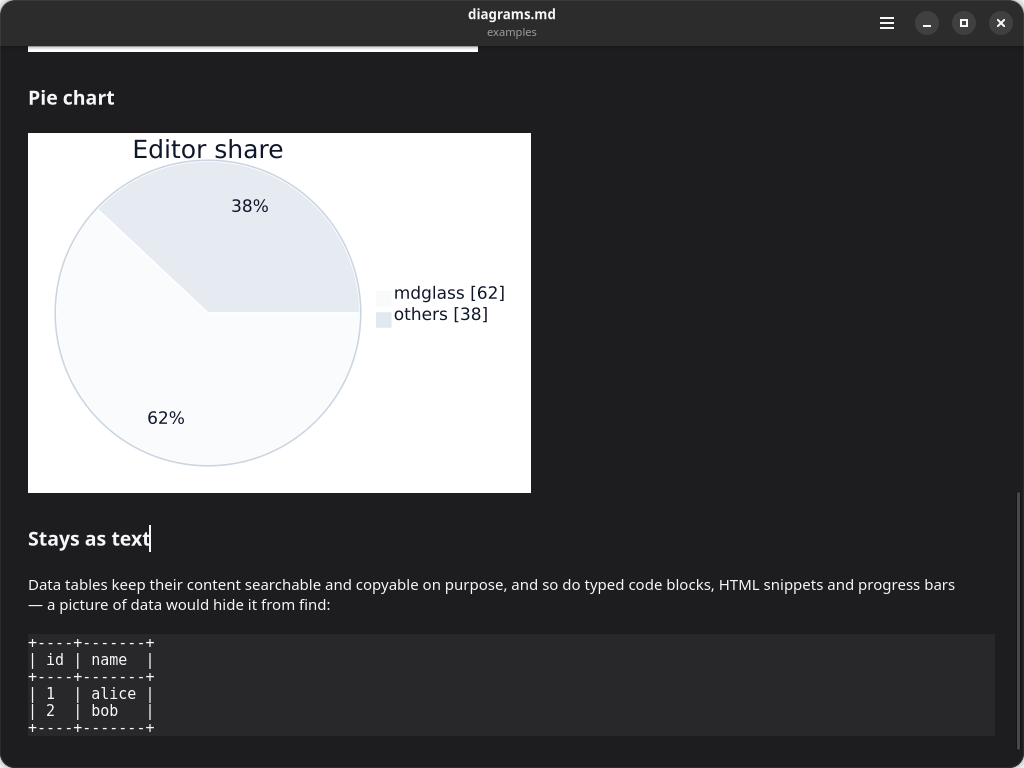
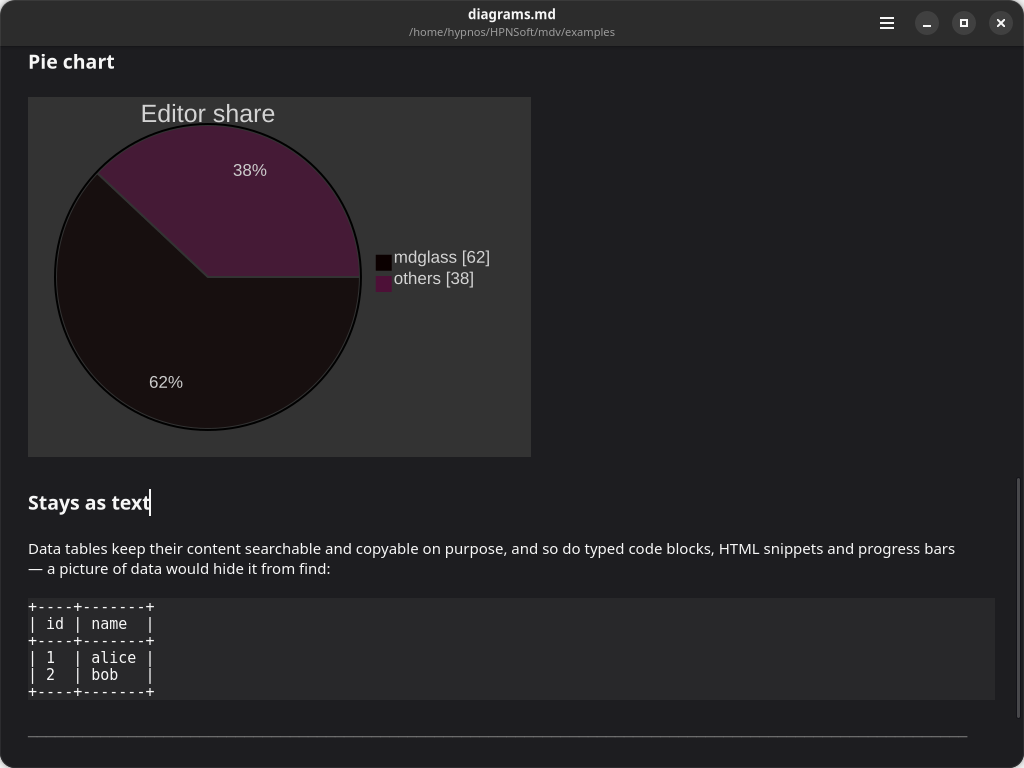
diagrams: mermaid palettes follow the light/dark style
Theme::dark() paints the #333333 canvas users expect; the mmdr CLI
fallback gets -t dark|modern so a fallback picture matches. The raw-SVG
cache key grows a dark bit (mermaid bakes its palette; aasvg stays
theme-independent but keys the same way), and the live notify::dark
handler already re-emits, so switching styles repaints pictures in
place. Smoke gates now check a theme-aware fill-area canvas metric with
a stale-palette counter (0 stale px both directions) and gained a
light-style diagram session.

diff --git a/src/vector.rs b/src/vector.rs
@@ -163,14 +163,26 @@ pub fn svg_theme(svg: &str, dark: bool) -> Option<String> {
 }
 
 /// Raw SVG from the engine named by `lang`, or None to keep the block as
-/// text. Theme-independent, so a light/dark flip never re-runs an engine.
-pub fn engine_svg(lang: &str, text: &str) -> Option<String> {
+/// text. Mermaid bakes its palette into the SVG (a dark preset exists and
+/// the theme affects layout-relevant colors), so its output is keyed by
+/// theme; aasvg emits `var()` colors and stays theme-independent until
+/// `apply_theme`. None is cached too, so a broken block never re-runs an
+/// engine on every frame.
+pub fn engine_svg(lang: &str, text: &str, dark: bool) -> Option<String> {
     if !fits(text) {
         return None;
     }
     if is_mermaid(lang) {
         let text = text.to_string();
-        let built = catch_unwind(move || mermaid_rs_renderer::render(&text)).ok()?;
+        let built = catch_unwind(move || {
+            // modern (light) is the crate default look; Theme::dark() paints
+            // the #333333 canvas mermaid users expect in dark mode
+            let theme =
+                if dark { mermaid_rs_renderer::Theme::dark() } else { mermaid_rs_renderer::Theme::modern() };
+            let opts = mermaid_rs_renderer::RenderOptions { theme, ..Default::default() };
+            mermaid_rs_renderer::render_with_options(&text, opts)
+        })
+        .ok()?;
         return built.ok();
     }
     if !art_lang(lang) {
@@ -184,8 +196,8 @@ pub fn engine_svg(lang: &str, text: &str) -> Option<String> {
     catch_unwind(move || aasvg::render(&ascii)).ok()
 }
 
-/// Engine output themed for the current style; mermaid SVGs carry their own
-/// (light) palette and pass through, like embedded images do.
+/// Engine output themed for the current style; mermaid SVGs already carry
+/// the palette rendered for that style and pass through, like images do.
 pub fn apply_theme(lang: &str, raw: &str, dark: bool) -> Option<String> {
     if is_mermaid(lang) {
         return Some(raw.to_string());
@@ -194,15 +206,16 @@ pub fn apply_theme(lang: &str, raw: &str, dark: bool) -> Option<String> {
 }
 
 /// Second-chance Mermaid through an installed `mmdr` CLI, when the built-in
-/// renderer (0.3.x, still growing) cannot parse the diagram.
-pub fn mermaid_via_cli(text: &str) -> Option<String> {
+/// renderer (0.3.x, still growing) cannot parse the diagram. The `-t` preset
+/// keeps the fallback's palette in step with the built-in one.
+pub fn mermaid_via_cli(text: &str, dark: bool) -> Option<String> {
     use std::io::Write;
     use std::process::{Command, Stdio};
     if !fits(text) {
         return None;
     }
     let mut child = Command::new("mmdr")
-        .args(["-e", "svg"])
+        .args(["-e", "svg", "-t", if dark { "dark" } else { "modern" }])
         .stdin(Stdio::piped())
         .stdout(Stdio::piped())
         .stderr(Stdio::null())
@@ -278,8 +291,11 @@ mod tests {
     #[test]
     fn aasvg_vectors_the_art_and_theme_pins_colors() {
         let art = "+------+\n| db   |----> out\n+------+\n";
-        let raw = engine_svg("", art, ).expect("art renders");
+        let raw = engine_svg("", art, false).expect("art renders");
         assert!(raw.contains("<style>"), "engine emits the themed shape");
+        // aasvg raw output carries var() colors, so it does not depend on
+        // the theme; only mermaid's baked palette does
+        assert_eq!(engine_svg("", art, true), Some(raw.clone()), "aasvg raw is theme-independent");
         let svg = apply_theme("", &raw, true).expect("theme applies");
         assert!(svg.contains("<path"), "expected vector paths");
         assert!(svg.contains("stroke=\"#9a999d\""), "dark stroke pinned");
@@ -290,20 +306,25 @@ mod tests {
         // a differently shaped engine output must fail closed
         assert_eq!(apply_theme("", "<svg>changed shape</svg>", true), None);
         // typed blocks stay code even when they draw boxes
-        assert!(engine_svg("rust", art).is_none());
-        assert!(engine_svg("text", art).is_some());
+        assert!(engine_svg("rust", art, false).is_none());
+        assert!(engine_svg("text", art, false).is_some());
     }
 
     #[test]
     fn mermaid_renders_and_garbage_fails_soft() {
-        let svg = engine_svg("mermaid", "flowchart LR; A-->B").expect("tiny flowchart");
+        let svg = engine_svg("mermaid", "flowchart LR; A-->B", false).expect("tiny flowchart");
         assert!(svg.contains("<svg"));
-        assert_eq!(apply_theme("mermaid", &svg, true).unwrap(), svg); // own palette
+        assert!(svg.contains("#FFFFFF"), "light style gets the light canvas");
+        let dark = engine_svg("mermaid", "flowchart LR; A-->B", true).expect("dark renders");
+        assert!(dark.contains("#333333"), "dark style gets the #333333 canvas");
+        assert!(!dark.contains("#FFFFFF"), "no light canvas leaks into dark mode");
+        assert_ne!(svg, dark, "the palette follows the style");
+        assert_eq!(apply_theme("mermaid", &dark, true).unwrap(), dark); // own palette
         // mmdr is forgiving, but rejects a document with no diagram header
-        assert!(engine_svg("mermaid", "this is not mermaid at all").is_none());
+        assert!(engine_svg("mermaid", "this is not mermaid at all", false).is_none());
         // oversized input stays text instead of hanging the UI thread
-        assert!(engine_svg("mermaid", &"flowchart LR\n".repeat(30_000)).is_none());
-        assert!(mermaid_via_cli(&"x".repeat(300_000)).is_none());
+        assert!(engine_svg("mermaid", &"flowchart LR\n".repeat(30_000), false).is_none());
+        assert!(mermaid_via_cli(&"x".repeat(300_000), false).is_none());
     }
 
     #[test]
@@ -332,20 +353,23 @@ mod tests {
         // box art and unicode art vectorize, themed for either style
         for i in 0..2 {
             assert_eq!(fences[i].0, ["", "text"][i], "block {i} info string");
-            let raw = engine_svg(&fences[i].0, &fences[i].1).unwrap_or_else(|| panic!("art block {i} must render"));
+            let raw = engine_svg(&fences[i].0, &fences[i].1, false).unwrap_or_else(|| panic!("art block {i} must render"));
             assert!(raw.contains("<path"), "block {i} has vector paths");
             for dark in [true, false] {
                 assert!(apply_theme(&fences[i].0, &raw, dark).is_some(), "block {i} themes");
             }
         }
-        // the three mermaid diagrams parse with the built-in engine
+        // the three mermaid diagrams parse with the built-in engine, in
+        // both palettes
         for i in 2..5 {
             assert_eq!(fences[i].0, "mermaid", "block {i} info string");
-            assert!(engine_svg("mermaid", &fences[i].1).is_some(), "mermaid block {i} must render");
+            for dark in [true, false] {
+                assert!(engine_svg("mermaid", &fences[i].1, dark).is_some(), "mermaid block {i} must render (dark={dark})");
+            }
         }
         // the grid table is the deliberate rejection: it stays searchable text
         assert_eq!(fences[5].0, "");
-        assert!(engine_svg("", &fences[5].1).is_none(), "the data table must stay text");
+        assert!(engine_svg("", &fences[5].1, false).is_none(), "the data table must stay text");
     }
 
     #[test]

diff --git a/tests/gui_smoke.py b/tests/gui_smoke.py
@@ -438,25 +438,67 @@ fn main() {}
     check("diagram session has no GTK warnings", not gtk_noise(err),
           "\n     ".join(gtk_noise(err)[:5]))
 
-    def dgr_check(path):
-        img = pngread.open(path)
+    def runs_of(img, pred, min_run=24):
+        # pixels inside horizontal same-color runs >= min_run: filled
+        # rectangles (a picture's canvas) qualify, text antialiasing does not
+        n = 0
+        for y in range(56, img.h, 2):
+            run = 0
+            for x in range(20, img.w - 16):
+                if pred(img.rgb(x, y)[:3]):
+                    run += 1
+                else:
+                    if run >= min_run:
+                        n += run
+                    run = 0
+            if run >= min_run:
+                n += run
+        return n
+
+    def longest_rule(img):
         best = 0
         for y in range(56, img.h):
             xs = lit_xs(img, y, 20, img.w - 16)
             if xs:
                 best = max(best, longest_run(xs)[0])
-        # the mermaid canvas (white on the dark page) cannot come from text:
-        # a text-only build of the same document sampled ~1000
-        whites = sum(1 for y in range(56, img.h, 2) for x in range(20, img.w - 16, 2)
-                     if all(c > 235 for c in img.rgb(x, y)[:3]))
-        # aasvg and mermaid rules are single solid strokes; the longest run
-        # of adjacent text pixels in the same document was 99 (box glyphs)
-        ok = best >= 400 and whites >= 8000
-        return ok, f"longest vector rule {best}px, mermaid canvas pixels {whites}"
+        return best
+
+    DARK_CANVAS = lambda c: all(abs(v - 0x33) <= 8 for v in c)   # Theme::dark() field
+    LIGHT_CANVAS = lambda c: all(v > 235 for v in c)             # light field
+
+    def dgr_check(path, dark=True):
+        img = pngread.open(path)
+        # the mermaid canvas follows the style: #333333 on a dark page,
+        # #FFFFFF on a light one. The OTHER color on screen means a stale
+        # palette; a text-only build shows neither
+        want = runs_of(img, DARK_CANVAS if dark else LIGHT_CANVAS)
+        stale = runs_of(img, LIGHT_CANVAS if dark else DARK_CANVAS)
+        best = longest_rule(img)
+        ok = best >= 400 and want >= 8000 and stale < 2000
+        return ok, f"longest vector rule {best}px, themed canvas {want}px, stale-palette canvas {stale}px"
 
     quality("code blocks became vector pictures (solid rules, mermaid canvas)", dgr_check, p("dgr1.png"))
     quality("pictures survive a full re-render of the document", dgr_check, p("dgr2.png"))
     quality("pictures stay vector after zooming", dgr_check, p("dgr3.png"))
+
+    # the palette must follow the style switch, not ride along from before:
+    # same document, light style, dark field forbidden. The light window is
+    # itself near-white, so there is no positive canvas count to demand:
+    # the vector rule (text-only build of this document: 73px) and the
+    # absent dark field carry the proof.
+    rc, err = run([p("dgr.md")], f"shot:{p('dgr_light.png')};quit", scheme="prefer-light", timeout=60)
+    check("light diagram session exits cleanly", rc == 0, f"exit {rc}\n{err[-400:]}")
+    check("light diagram session has no GTK warnings", not gtk_noise(err),
+          "\n     ".join(gtk_noise(err)[:5]))
+
+    def dgr_light_check(path):
+        img = pngread.open(path)
+        dark_field = runs_of(img, DARK_CANVAS)
+        best = longest_rule(img)
+        ok = dark_field < 1000 and best >= 120
+        return ok, f"dark canvas pixels {dark_field} (must be ~none), longest vector rule {best}px"
+
+    quality("light style gets a light mermaid palette, still vector", dgr_light_check, p("dgr_light.png"))
 
     # the near-misses must stay text: HTML, progress bars and grid tables
     # would lose their searchable, copyable content to a picture
@@ -470,17 +512,14 @@ fn main() {}
 
     def text_check(path):
         img = pngread.open(path)
-        best = 0
-        for y in range(56, img.h):
-            xs = lit_xs(img, y, 20, img.w - 16)
-            if xs:
-                best = max(best, longest_run(xs)[0])
-        whites = sum(1 for y in range(56, img.h, 2) for x in range(20, img.w - 16, 2)
-                     if all(c > 235 for c in img.rgb(x, y)[:3]))
-        # a vectorized block would show the >=400px rule and >=8000 canvas
-        # pixels dgr_check demands; the gate must have refused all of them
-        ok = best < 400 and whites < 8000
-        return ok, f"longest run {best}px, canvas pixels {whites} (both must stay below the picture gates)"
+        best = longest_rule(img)
+        # a vectorized block in either palette would show the >=400px rule
+        # and >=8000px canvas dgr_check demands; the gate must have refused
+        # all of them, in the theme it renders (dark field here, no stale
+        # white card either)
+        fields = runs_of(img, DARK_CANVAS) + runs_of(img, LIGHT_CANVAS)
+        ok = best < 400 and fields < 2000
+        return ok, f"longest run {best}px, canvas-field pixels {fields} (both must stay below the picture gates)"
 
     quality("html/bars/grid-tables stay searchable text, not pictures", text_check, p("notart.png"))
 

diff --git a/src/gui.rs b/src/gui.rs
@@ -515,11 +515,12 @@ struct App {
     rescroll_left: u8,
     rescroll_upper: f64,
     pending_top: Option<(usize, i32)>,
-    /// raw engine SVG per diagram block, keyed by (info string, source):
-    /// theme-independent, so a light/dark flip never re-runs an engine nor
-    /// respawns the CLI. None = failed, also cached, so a broken block never
-    /// re-runs the engine on every frame. Cleared when another document loads.
-    svg_cache: HashMap<(String, String), Option<String>>,
+    /// raw engine SVG per diagram block, keyed by (info string, source,
+    /// dark): mermaid bakes its palette in, so the theme is part of the key.
+    /// aasvg output is theme-independent but keyed the same way. None =
+    /// failed, also cached, so a broken block never re-runs the engine on
+    /// every frame. Cleared when another document loads.
+    svg_cache: HashMap<(String, String, bool), Option<String>>,
     /// decoded picture per (info string, source, dark) at the zoom it was
     /// made for; re-emits at the same zoom (scroll, resize, live reload)
     /// reuse it without touching librsvg again. Each entry holds one
@@ -528,7 +529,7 @@ struct App {
     /// keys the current emit actually used; the caches shrink to these at
     /// the end of every render, so live reloads cannot pile up revisions
     /// forever (they re-render with keep = true and would never clear)
-    used_svg: HashSet<(String, String)>,
+    used_svg: HashSet<(String, String, bool)>,
     used_raster: HashSet<(String, String, bool)>,
     /// the current document shows at least one picture (a theme flip must
     /// re-emit those: palettes are baked into the SVG at render time)
@@ -1179,13 +1180,13 @@ unsafe fn picture_for(lang: &str, lines: &[String]) -> Ptr {
     }
     let src = lines.join("\n");
     let dark = (l().adw_style_manager_get_dark)((l().adw_style_manager_get_default)()) != 0;
-    let key = (lang.to_string(), src.clone());
+    let key = (lang.to_string(), src.clone(), dark);
     let raw = match (*app()).svg_cache.get(&key) {
         Some(hit) => hit.clone(),
         None => {
-            let built = vector::engine_svg(lang, &src).or_else(|| {
+            let built = vector::engine_svg(lang, &src, dark).or_else(|| {
                 // built-in mmdr is 0.3.x; an installed newer CLI gets a vote
-                if vector::is_mermaid(lang) { vector::mermaid_via_cli(&src) } else { None }
+                if vector::is_mermaid(lang) { vector::mermaid_via_cli(&src, dark) } else { None }
             });
             (*app()).svg_cache.insert(key.clone(), built.clone());
             built
@@ -1195,7 +1196,7 @@ unsafe fn picture_for(lang: &str, lines: &[String]) -> Ptr {
     let Some(raw) = raw else { return std::ptr::null_mut() };
     let Some(svg) = vector::apply_theme(lang, &raw, dark) else { return std::ptr::null_mut() };
     let zoom = (*app()).zoom;
-    let rkey = (key.0.clone(), key.1.clone(), dark);
+    let rkey = key; // raster keys carry the same theme bit
     (*app()).used_raster.insert(rkey.clone());
     if let Some((z, pb)) = (*app()).raster_cache.get(&rkey) {
         if (z - zoom).abs() < 0.005 {

diff --git a/docs/diagram-engine-options.md b/docs/diagram-engine-options.md
@@ -149,12 +149,16 @@ when guessed wrong) shape it:
 The texture's `GBytes` is built with `g_bytes_new_with_free_func` carrying a
 reference to the source pixbuf, so the pixels stay alive exactly as long as
 the texture reads them. Caching is two-tier: raw engine SVG (and failures)
-per document keyed by (info string, source) — theme-independent, so a
-light/dark flip never re-runs an engine nor respawns the CLI — and decoded
-pixbufs per (source, theme) at the zoom they were made for, so scrolling,
-live reload and resize touch neither engine nor librsvg, while zoom gets a
-fresh librsvg render at the target size (crisp vectors, never an upscale).
-Both caches prune to the keys the current emit used, because live reload
-re-renders with the cache-retaining flag and would otherwise accumulate
-every saved revision. Zoom clamp: one uniform factor across both axes.
+per document keyed by (info string, source, dark) and decoded pixbufs per
+the same triple at the zoom they were made for, so scrolling, live reload
+and resize touch neither engine nor librsvg, while zoom gets a fresh librsvg
+render at the target size (crisp vectors, never an upscale). The `dark` bit
+is in the SVG key because mermaid bakes its palette in: `Theme::modern()`
+paints a white canvas, `Theme::dark()` a `#333333` one, so the diagrams
+follow the system light/dark setting; the `mmdr` CLI gets `-t modern|dark`
+to match. aasvg output is theme-independent (it carries `var()` colors that
+`svg_theme` resolves later) but keys the same way. Both caches prune to the
+keys the current emit used, because live reload re-renders with the
+cache-retaining flag and would otherwise accumulate every saved revision.
+Zoom clamp: one uniform factor across both axes.
 Terminal output is unchanged: pictures are a window-only enhancement.

diff --git a/README.md b/README.md
@@ -39,7 +39,8 @@ Prose wraps to the window; wide tables and diagrams keep their shape and scroll 
 Those wraps are real line breaks, as in the terminal: find does not match a phrase split
 across two lines, copied text keeps the breaks, and resizing or zooming clears a selection.
 In the window, ```` ```mermaid ```` blocks and untyped box-art blocks are drawn as vector
-graphics (terminal output stays text); any block that cannot be drawn stays a code block.
+graphics in a palette that follows your light/dark setting (terminal output stays text);
+any block that cannot be drawn stays a code block.
 `examples/diagrams.md` demos every kind, with `examples/screenshots/` as proof.
 
 See `man mdglass` for all options.

diff --git a/examples/diagrams.md b/examples/diagrams.md
@@ -1,9 +1,9 @@
 # Diagrams, drawn as vectors
 
 The GNOME window (`mdglass --gui`) renders the blocks below as real vector
-pictures; the terminal renders this same file as plain code. Zooming
-(`Ctrl++`) re-renders them sharp, and any block the recognizers reject
-stays searchable code text.
+pictures in a palette that follows your light/dark setting; the terminal
+renders this same file as plain code. Zooming (`Ctrl++`) re-renders them
+sharp, and any block the recognizers reject stays searchable code text.
 
 ## Box art
 
